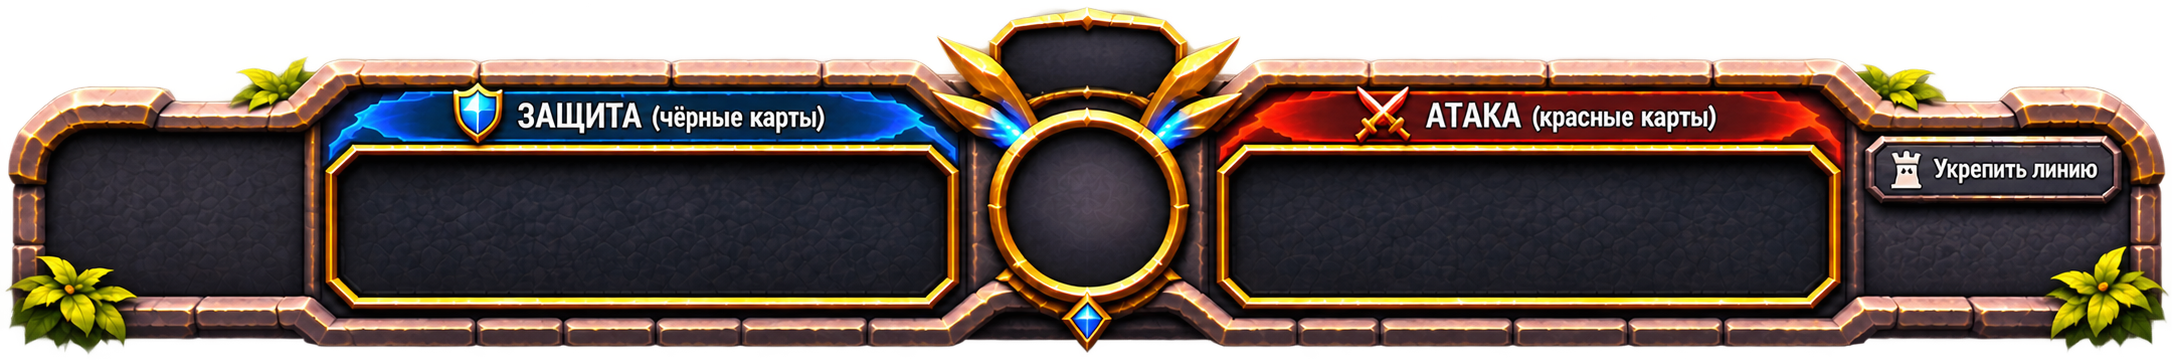
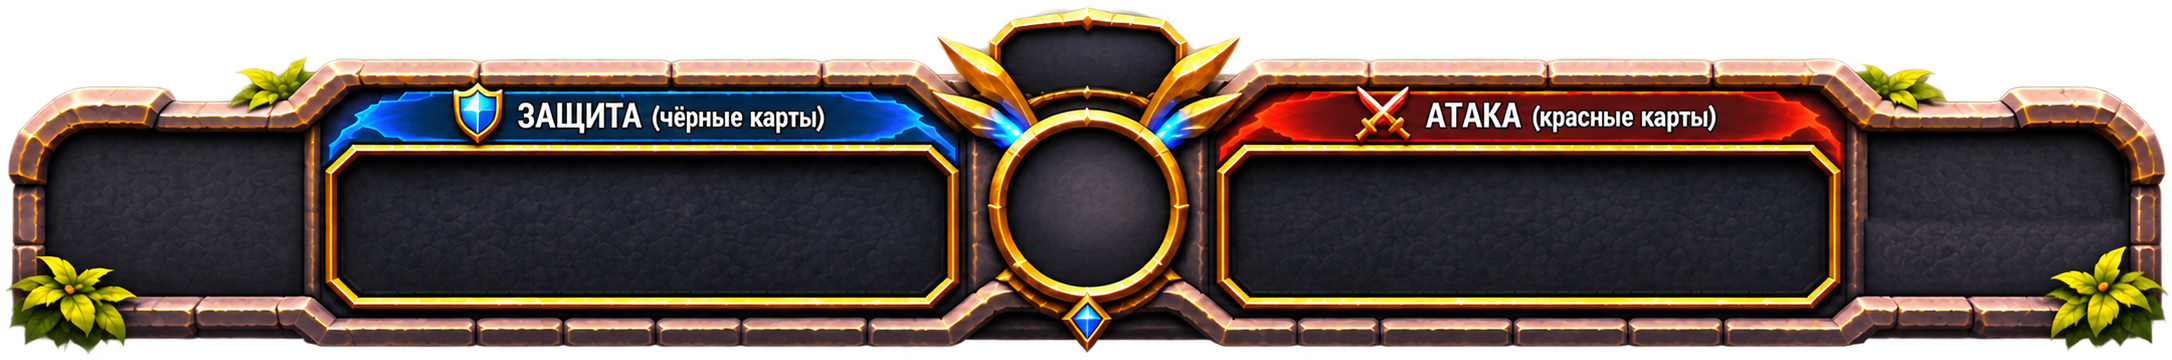
feat(arena): simplify match HUD and turn controls

Changed region(s): [[0.8329, 0.3667, 0.9871, 0.6111]]

diff --git a/src/main.js b/src/main.js
@@ -10,11 +10,10 @@ import { battleHTML as Board, nexusPhaseBar } from './ui/arena/ArenaScene.js';
 import { applyArenaLayout } from './ui/arena/ArenaScene.js';
 import { initArenaLayoutEditor, isArenaDebugEnabled } from './ui/arena/ArenaLayoutEditor.js';
 import { loadLayoutOverrides } from './ui/arena/arenaLayout.js';
-import { roundReportHTML, wireReportClicks } from './ui/PairPreview.js';
 import { cardPanelHTML, cardPanelToolsHTML, initCardPanel, isAttackCard, PANEL_LANES, renderPanelCards, renderPanelPreview } from './ui/card-panel/CardPanel.js';
 import { clearFloats, playRoundAnimation, bindCombatUI, isCombatPlaying } from './ui/animations.js';
 import { animateMeters, METER_LAST } from './ui/meters.js';
-import { nextReportRound, hasNewBattle as hasNewBattleReport, fortifyLaneForSubmit } from './ui/combat-logic.js';
+import { nextReportRound, hasNewBattle as hasNewBattleReport } from './ui/combat-logic.js';
 import { EndScreen } from './ui/EndScreen.js';
 
 const app = document.getElementById('app');
@@ -24,8 +23,6 @@ let view = null;          // персональный PlayerView с сервер
 let myHand = [];          // объекты карт моей руки
 let slots = [];           // локальная раскладка: [{atk:[card,card], def:[card,card]}×3]
 let selected = [];        // id выбранных карт (0..2)
-let fortifyLane = null;   // выбранная линия укрепления до submit
-let fortifyMode = false;
 let submission = null;
 let unwatch = null;
 let lastReportRound = 0; // номер уже показанного отчёта (для постановки у обоих игроков)
@@ -118,7 +115,7 @@ function exitMatch(matchId = view?.matchId, confirmText) {
   if (unwatch) { unwatch(); unwatch = null; }
   clearFloats();
   lastReportRound = 0;
-  selected = []; fortifyLane = null; fortifyMode = false;
+  selected = [];
   submission = null;
   slots = resetSlots(); slotsState.round = 0;
   myHand = []; view = null;
@@ -145,12 +142,8 @@ async function refresh(matchId) {
     return;
   }
   myHand = view.me.hand;
-  // Укрепление — строго 1 раз ЗА МАТЧ. Если сервер уже засчитал его, локальный
-  // выбор снимаем: иначе он уходил бы в каждый следующий submit, и сервер
-  // отвечал бы 400 fortify-used до конца матча (игрок «застревал»).
-  if (view.me.fortifyUsed && (fortifyLane !== null || fortifyMode)) { fortifyLane = null; fortifyMode = false; }
   if (view.matchId !== slotsState.matchId || view.round !== slotsState.round) {
-    slots = resetSlots(); selected = []; fortifyLane = null; fortifyMode = false;
+    slots = resetSlots(); selected = [];
     METER_LAST.clear(); slotsState.matchId = view.matchId; slotsState.round = view.round;
   } else {
     const handIds = new Set(myHand.map((card) => card.id));
@@ -190,8 +183,8 @@ function doRematch(btn) {
 
 function render(resolving = false) {
   if (isCombatPlaying()) return; // UI заморожен на время боевой хореографии
-  const panelState = { round: view.round, blocked: resolving || turnLocked(), fortifyUsed: view.me.fortifyUsed,
-    ready: view.status === 'planning' && (view.me.ready || currentSubmission()?.accepted), fortifyMode, fortifyLane };
+  const panelState = { round: view.round, blocked: resolving || turnLocked(),
+    ready: view.status === 'planning' && (view.me.ready || currentSubmission()?.accepted) };
   const root = document.createElement('div');
   root.innerHTML = `
     <header><div><h1>ВОЧКО <span style="color:#e7ecf6">/ ТРИ ЛИНИИ</span></h1>
@@ -205,7 +198,6 @@ function render(resolving = false) {
       </div>
       <section class="hand-area card-panel-area">
         ${cardPanelToolsHTML(panelState)}
-        <div class="battle-reports" id="battleReports">${roundReportHTML(view, view.seat)}</div>
       </section>
     </div>`;
   app.replaceChildren(root);
@@ -217,7 +209,6 @@ function render(resolving = false) {
   renderPanelCards(hand, myHand, selected, usedIds(), panelState.blocked);
   animateMeters();
   updatePreview();
-  wireReportClicks(byId('battleReports'), view, view.seat);
 
   hand.addEventListener('click', (e) => {
     const btn = e.target.closest('[data-card]');
@@ -243,24 +234,8 @@ function render(resolving = false) {
     target.onkeydown = (e) => {
       if (e.key === 'Enter' || e.key === ' ') { e.preventDefault(); target.click(); }
     };
-    target.onpointerenter = target.onfocus = () => updatePreview(target);
-    target.onpointerleave = target.onblur = () => updatePreview();
   });
 
-  byId('fortifyBtn').onclick = () => {
-    if (turnLocked() || view.me.fortifyUsed) return setStatus(byId('fortifyBtn').title);
-    fortifyMode = !fortifyMode;
-    render();
-    if (fortifyMode) root.querySelector('[data-fort]').focus();
-    else byId('fortifyBtn').focus();
-  };
-  root.querySelectorAll('[data-fort]').forEach((button) => button.onclick = () => {
-    if (turnLocked() || view.me.fortifyUsed) return;
-    fortifyLane = button.dataset.fort === 'cancel' ? null : +button.dataset.fort;
-    fortifyMode = false;
-    render();
-    byId('fortifyBtn').focus();
-  });
   byId('clearBtn').onclick = () => { if (turnLocked()) return; selected = []; slots = resetSlots(); render(); };
   byId('fightBtn').onclick = submit;
   byId('exitBtn').onclick = () => exitMatch();
@@ -289,11 +264,8 @@ function showEndScreen(v) {
 // Хореография боя рендерит финальное состояние и финальный экран сама.
 bindCombatUI({ render, showEndScreen });
 
-function updatePreview(target) {
-  const cards = selected.map(cardById);
-  const fortified = target && +target.dataset.lane === fortifyLane && cards.length === 2
-    && isAttackCard(cards[0]) === (target.dataset.kind === 'atk');
-  renderPanelPreview(byId('hand'), cards, fortified);
+function updatePreview() {
+  renderPanelPreview(byId('hand'), selected.map(cardById));
 }
 
 function placeCards(target, ids) {
@@ -320,8 +292,7 @@ async function submit() {
   if (placements.some((p) => p.attack.length !== 2 || p.defense.length !== 2))
     return setStatus('Собери 3 атакующие и 3 защитные пары.');
   const { matchId, round, version: expectedVersion } = view;
-  const turn = { matchId, round, expectedVersion, placements,
-    fortifyLane: fortifyLaneForSubmit({ fortifyUsed: view.me.fortifyUsed, lane: fortifyLane }) };
+  const turn = { matchId, round, expectedVersion, placements };
   const pending = submission = { matchId, round, accepted: false };
   render();
   setStatus('Отправляем ход…');
@@ -346,19 +317,16 @@ async function submit() {
     if (pending.accepted) {
       setStatus('Ход принят. Обнови страницу, чтобы получить состояние матча.');
     } else {
-      const alreadyUsed = e.message === 'fortify-used';
       const missingCard = e.message?.startsWith(missingCardPrefix) ? e.message.slice(missingCardPrefix.length) : null;
-      if (alreadyUsed || missingCard) {
-        if (alreadyUsed) { fortifyLane = null; fortifyMode = false; }
+      if (missingCard) {
         await refresh(matchId).catch(() => {});
         if (currentSubmission() !== pending) return;
-        if (missingCard && !view.me.ready) keepDraftCards((id) => id !== missingCard);
+        if (!view.me.ready) keepDraftCards((id) => id !== missingCard);
       }
       submission = null;
       render();
       if (view.me.ready) return;
       if (missingCard) setStatus(`Сервер отклонил карту ${missingCard}. Выбери другую карту для освободившегося места.`);
-      else if (alreadyUsed) setStatus('Укрепление уже использовано. Отправь ход ещё раз.');
       else setStatus('Ошибка отправки: ' + (e.message || 'повтори попытку'));
     }
   }
@@ -391,7 +359,6 @@ window.addEventListener('pointermove', (e) => {
     document.querySelectorAll('.drag-over').forEach((x) => x.classList.remove('drag-over'));
     const target = document.elementFromPoint(e.clientX, e.clientY)?.closest('.drop-target');
     target?.classList.add('drag-over');
-    if (byId('hand')) updatePreview(target);
   }
 }, { passive: false });
 window.addEventListener('pointerup', (e) => {

diff --git a/src/ui/card-panel/CardPanel.js b/src/ui/card-panel/CardPanel.js
@@ -2,7 +2,6 @@ import panel from './assets/panel.png';
 import readyNormal from './assets/ready_normal.png';
 import readyPressed from './assets/ready_pressed.png';
 import { attackInfo, elementName, SUIT_ELEMENT } from '../../../shared/elements.js';
-import { fortifiedAttack, fortifiedDefense } from '../../../shared/engine.js';
 import { elementAnimHTML } from '../arena/ElementEffect.js';
 
 // Percentages of panel.png, measured after trimming its transparent padding.
@@ -12,8 +11,7 @@ export const cardPanelLayout = {
   elementCircle: { x: 46.18, y: 34.6, w: 7.8, h: 47.06 },
   powerLabel: { x: 46.4, y: 8.8, w: 7.2, h: 15 },
   attackCards: { x: 56.95, y: 43, w: 26.9, h: 37 },
-  reinforceButton: { x: 85.75, y: 36.5, w: 12.05, h: 18.5 },
-  readyButton: { x: 86, y: 60, w: 11.55, h: 23.2 },
+  readyButton: { x: 85.55, y: 42.5, w: 12.45, h: 26 },
 };
 
 export const PANEL_LANES = ['Верх', 'Центр', 'Низ'];
@@ -25,11 +23,7 @@ function applyZone(element, box) {
   for (const key of ['x', 'y', 'w', 'h']) element.style.setProperty('--zone-' + key, box[key] + '%');
 }
 
-export function cardPanelHTML({ round, blocked, ready, fortifyUsed, fortifyMode, fortifyLane }) {
-  const fortifyHint = fortifyUsed ? 'Укрепление уже использовано в этом матче'
-    : blocked ? 'Укрепление доступно во время раскладки'
-    : fortifyLane === null ? 'Укрепить линию (1 из 1)'
-    : 'Укрепление: ' + PANEL_LANES[fortifyLane];
+export function cardPanelHTML({ round, blocked, ready }) {
   return `
     <div id="hand" class="card-panel${debug ? ' panel-debug' : ''}"
       style="--panel-art:url('${panel}')" aria-label="Управление картами">
@@ -38,9 +32,6 @@ export function cardPanelHTML({ round, blocked, ready, fortifyUsed, fortifyMode,
       <div class="panel-zone panel-sphere" data-zone="elementCircle"><div id="panelEffect"></div></div>
       <div class="panel-zone panel-power" data-zone="powerLabel" id="panelPower" role="status"></div>
       <div class="panel-zone panel-cards" data-zone="attackCards" role="group" aria-label="Атака"></div>
-      <button type="button" class="panel-zone panel-reinforce" data-zone="reinforceButton" id="fortifyBtn"
-        title="${fortifyHint}" aria-label="${fortifyHint}" aria-expanded="${fortifyMode}"
-        aria-pressed="${fortifyLane !== null}" aria-disabled="${blocked || fortifyUsed}"></button>
       <button type="button" class="panel-zone panel-ready" data-zone="readyButton" id="fightBtn"
         aria-label="${ready ? 'Ход отправлен' : 'Готово'}" ${blocked ? 'disabled' : ''}>
         <img src="${readyNormal}" alt="" draggable="false">
@@ -49,15 +40,10 @@ export function cardPanelHTML({ round, blocked, ready, fortifyUsed, fortifyMode,
     </div>`;
 }
 
-export function cardPanelToolsHTML({ blocked, ready, fortifyMode, fortifyLane }) {
+export function cardPanelToolsHTML({ blocked, ready }) {
   return `
     <div class="panel-tools">
       <button type="button" class="btn" id="clearBtn" ${blocked ? 'disabled' : ''}>↩ Очистить</button>
-      <div class="panel-fortify-options" ${fortifyMode && !blocked ? '' : 'hidden'} aria-label="Линия укрепления">
-        ${PANEL_LANES.map((label, lane) => `<button type="button" class="btn" data-fort="${lane}">${label}</button>`).join('')}
-        <button type="button" class="btn" data-fort="cancel">Снять</button>
-      </div>
-      ${fortifyLane === null ? '' : `<span>🛡 ${PANEL_LANES[fortifyLane]}</span>`}
       <div class="panel-status" id="status" role="status">${ready ? 'Ход отправлен. Ждём соперника.' : ''}</div>
     </div>`;
 }
@@ -81,7 +67,7 @@ export function renderPanelCards(hand, cards, selected, used, blocked) {
   }
 }
 
-export function renderPanelPreview(hand, cards, fortified = false) {
+export function renderPanelPreview(hand, cards) {
   const effect = hand.querySelector('#panelEffect');
   const power = hand.querySelector('#panelPower');
   const pair = cards.length === 2 && isAttackCard(cards[0]) === isAttackCard(cards[1]);
@@ -92,9 +78,7 @@ export function renderPanelPreview(hand, cards, fortified = false) {
     effect.dataset.element = element;
     effect.innerHTML = elementAnimHTML(element);
   }
-  const value = !info ? '' : attack ? (fortified ? fortifiedAttack(info.a) : info.a)
-    : (fortified ? fortifiedDefense(info.d) : info.d);
-  power.textContent = info ? `${attack ? '⚔' : '🛡'} ${value}` : '';
+  power.textContent = info ? (attack ? `⚔ ${info.a}` : `🛡 ${info.d}`) : '';
   power.dataset.kind = info ? (attack ? 'attack' : 'defense') : '';
   power.title = info ? `${elementName(cards)} · Сила до учёта скрытых карт соперника` : '';
 }

diff --git a/src/ui/card-panel/card-panel.css b/src/ui/card-panel/card-panel.css
@@ -100,16 +100,14 @@
 .panel-card-ghost .panel-card-corner { font-size: 13px; }
 .panel-card-ghost .panel-card-element { font-size: 22px; }
 
-.panel-reinforce, .panel-ready {
+.panel-ready {
   border: 0;
   background: transparent;
   padding: 0;
   border-radius: 9%;
 }
-.panel-reinforce[aria-disabled="true"], .panel-ready:disabled { cursor: default; filter: brightness(.55) saturate(.65); }
-.panel-reinforce[aria-disabled="true"] { background-color: #0006; }
-.panel-reinforce:is([aria-pressed="true"], [aria-expanded="true"]) { box-shadow: inset 0 0 0 2px #f6cd78, 0 0 8px #f6cd78; }
-.panel-reinforce:focus-visible, .panel-ready:focus-visible, .panel-card:focus-visible {
+.panel-ready:disabled { cursor: default; filter: brightness(.55) saturate(.65); }
+.panel-ready:focus-visible, .panel-card:focus-visible {
   outline: 2px solid #8de4ff;
   outline-offset: 2px;
 }
@@ -122,19 +120,6 @@
 .card-panel-area.hand-area { background: transparent; backdrop-filter: none; box-shadow: none; }
 .panel-tools { position: relative; display: flex; align-items: center; gap: 8px; min-height: 26px; font-size: 11px; }
 .panel-tools .btn { padding: 3px 7px; font-size: 11px; }
-.panel-fortify-options:not([hidden]) {
-  display: flex;
-  flex-wrap: wrap;
-  gap: 4px;
-  position: absolute;
-  z-index: 10;
-  right: 0;
-  bottom: 100%;
-  padding: 6px;
-  border: 1px solid #a28347;
-  border-radius: 7px;
-  background: #161e30;
-}
 .panel-status { color: #f4deae; }
 .panel-editor { top: 72px; right: auto; left: 12px; }
 .panel-debug .panel-zone { outline: 1px dashed #6dedff; outline-offset: -1px; }
@@ -154,7 +139,7 @@
     aspect-ratio: auto;
     display: grid;
     grid-template-columns: 1fr 56px 1fr;
-    grid-template-areas: "round . fortify" "defense defense defense" "attack attack attack" ". power ready" ". sphere ready";
+    grid-template-areas: "round round round" "defense defense defense" "attack attack attack" ". power ready" ". sphere ready";
     gap: 4px;
     padding: 4px;
     background: #171b2a;
@@ -182,14 +167,12 @@
     background: var(--panel-art) 50.1% 69% / 1080% 175% no-repeat;
   }
   .card-panel:not(.panel-debug) #panelEffect { padding: 4px; }
-  .card-panel:not(.panel-debug) .panel-reinforce {
-    grid-area: fortify;
+  .card-panel:not(.panel-debug) .panel-ready {
+    grid-area: ready;
     width: min(100%, 140px);
-    min-height: 36px;
-    justify-self: end;
-    background: var(--panel-art) 97.5% 44.8% / 830% 540% no-repeat;
+    min-height: 44px;
+    justify-self: center;
   }
-  .card-panel:not(.panel-debug) .panel-ready { grid-area: ready; min-height: 44px; }
 }
 
 @media (prefers-reduced-motion: reduce) { .panel-card.card { transition: none; } }

diff --git a/tests/arena-ui.test.js b/tests/arena-ui.test.js
@@ -119,6 +119,22 @@ test('battleHTML: пробитая линия открывает этаж нек
   assert.match(html, /nexus-floor open drop-target"\s+data-lane="0" data-kind="atk"/);
 });
 
+test('в начале HP показывается только у шести ближних башен', () => {
+  const html = battleHTML(view(), emptySlots());
+  assert.equal((html.match(/class="tower-hp"/g) || []).length, 6);
+});
+
+test('при разрушении ближней башни HP появляется у дальней башни той же линии', () => {
+  const v = view();
+  v.board.me.outer = [0, 12, 12];
+  v.board.opponent.outer = [12, 0, 12];
+  v.board.me.inner[0] = 9;
+  v.board.opponent.inner[1] = 9;
+  const html = battleHTML(v, emptySlots());
+  assert.equal((html.match(/class="tower-hp"/g) || []).length, 6);
+  assert.equal((html.match(/width:50%/g) || []).length, 2);
+});
+
 test('карты в слотах: пара кладётся в свои слоты, красные — атака (класс red)', () => {
   const html = cardSlotHTML(0, [{ r: '10', s: '♥', id: 'c1' }]);
   assert.match(html, /slot-card red/);

diff --git a/src/ui/arena/TowerView.js b/src/ui/arena/TowerView.js
@@ -41,9 +41,9 @@ export function towerHTML({ hp, max, label, lane, kind, active, slots }) {
       </div>
       <div class="element-circle" data-element="${element}">${elementAnimHTML(element)}</div>` : ''}
     </div>
-    <div class="tower-hp">
+    ${active && alive ? `<div class="tower-hp">
       <div class="tinybar"><i style="width:${Math.max(0, (hp / max) * 100)}%"></i></div>
-    </div>
+    </div>` : ''}
   </div>`;
 }
 
